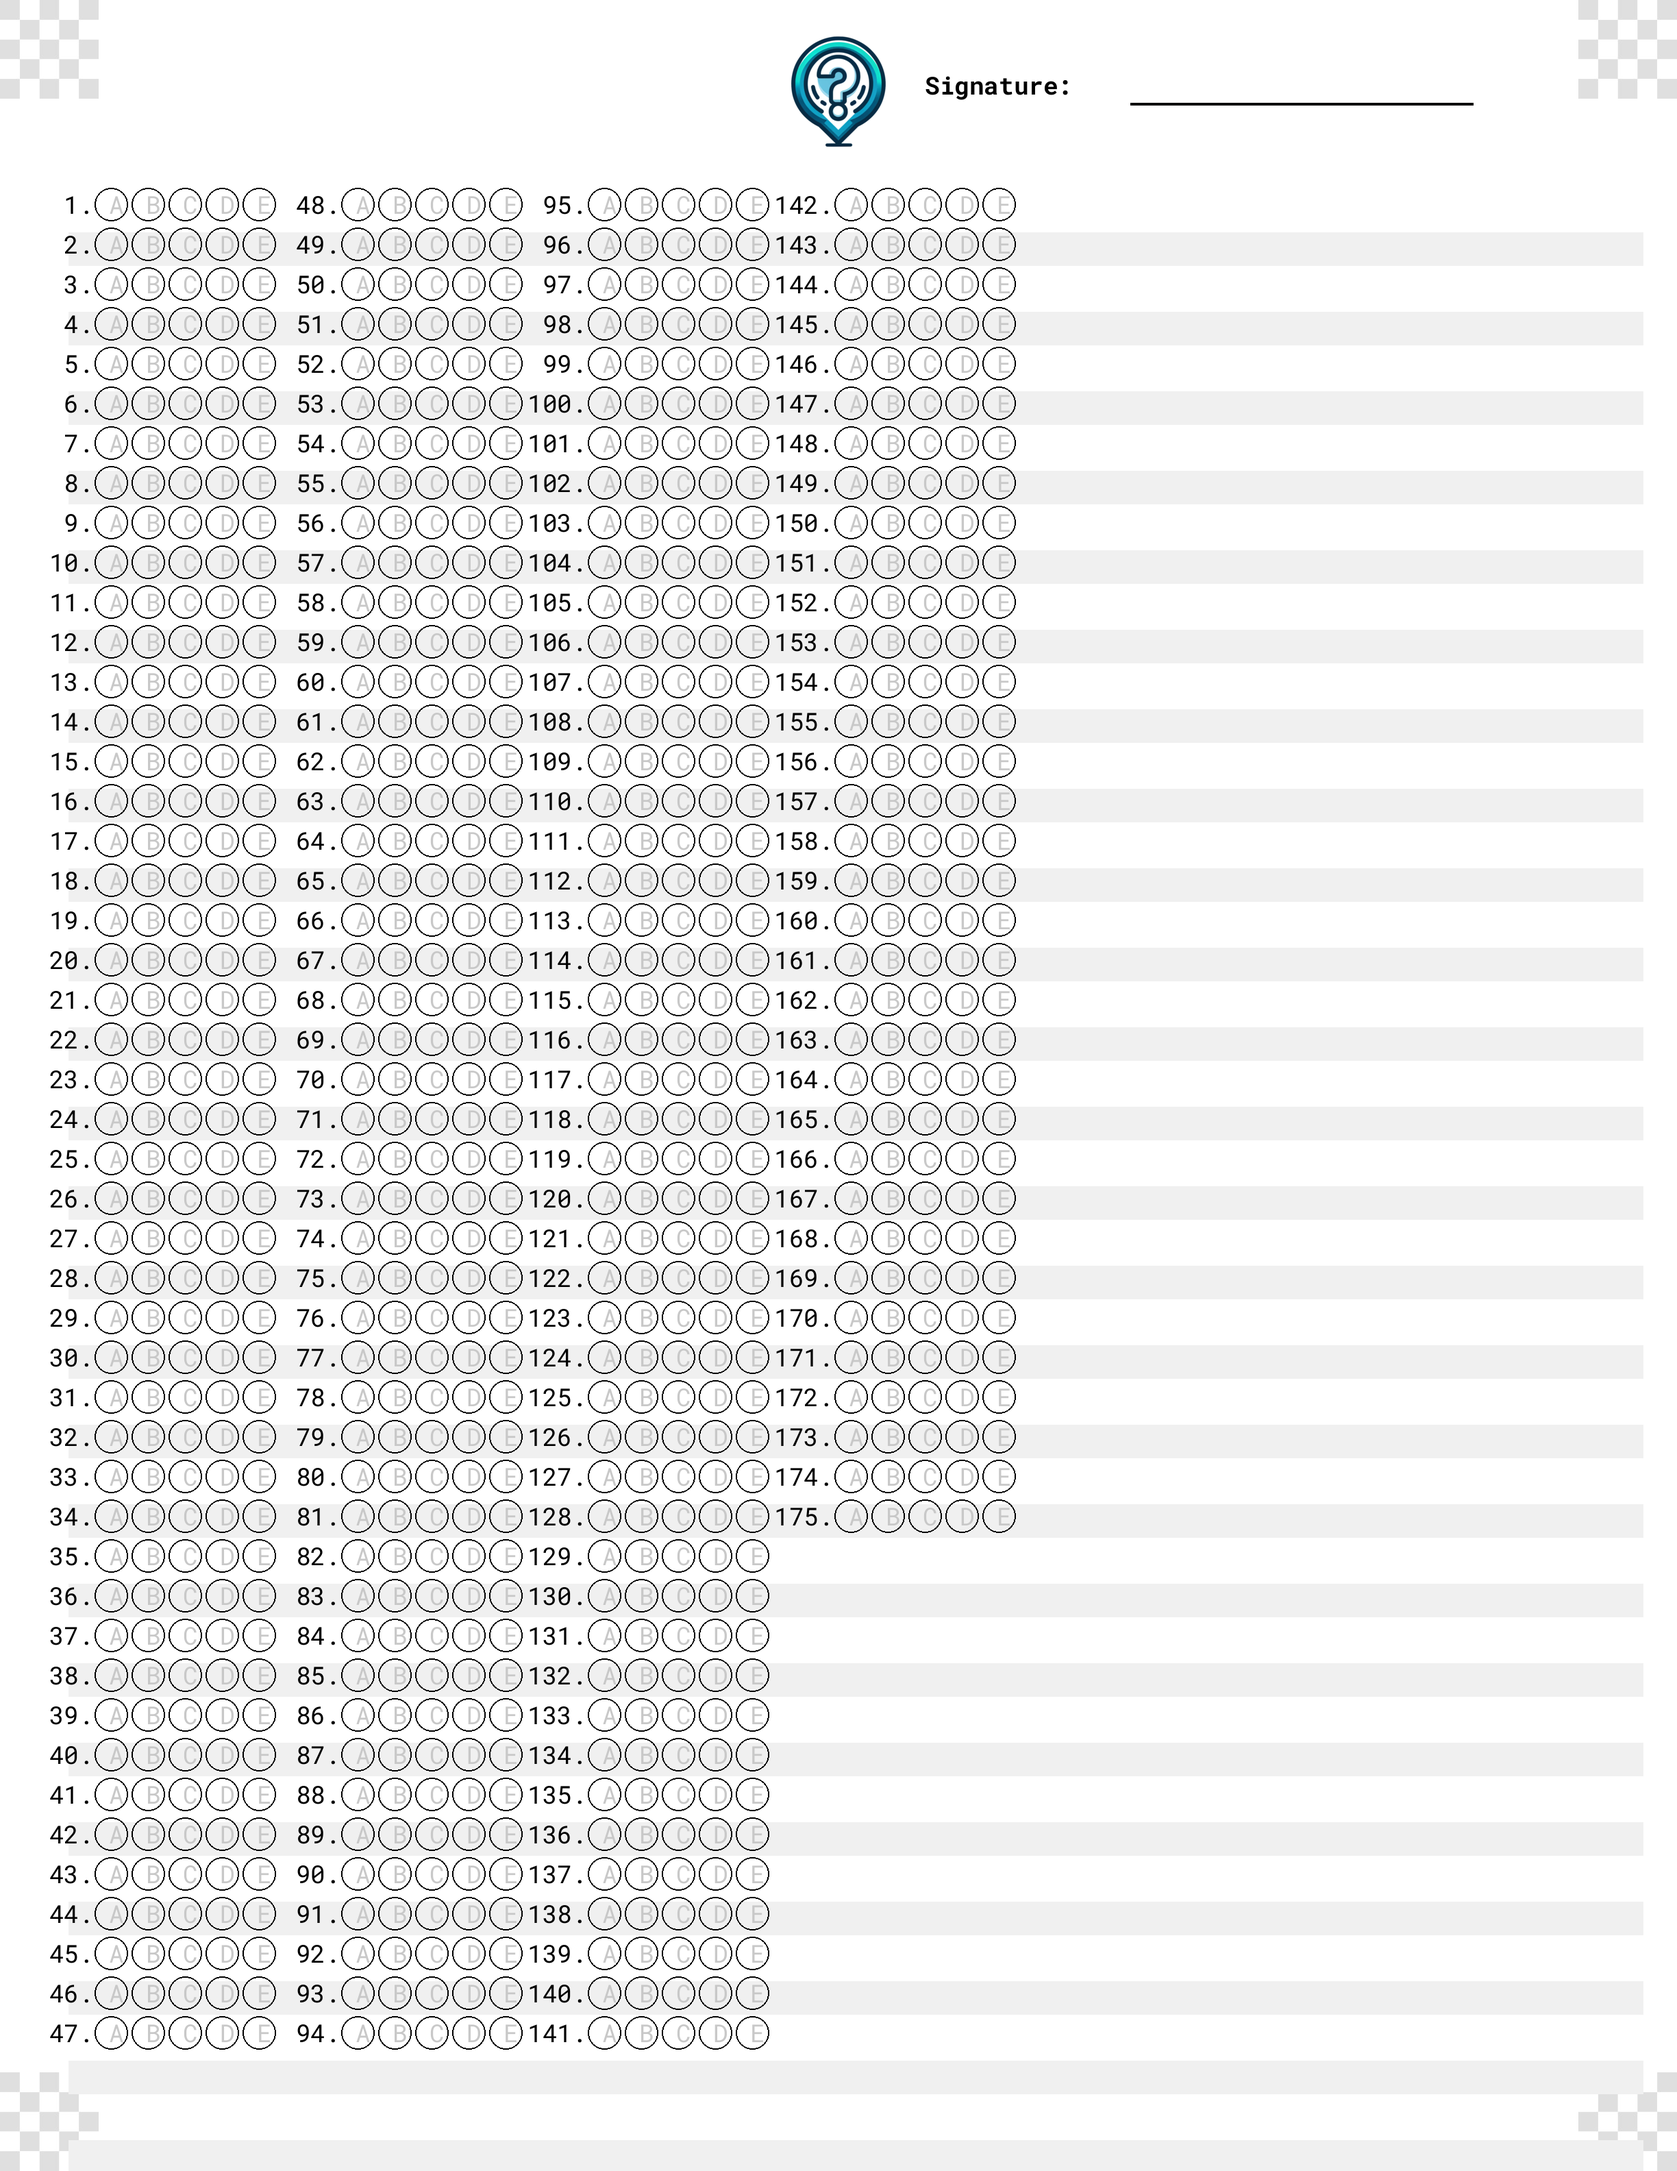
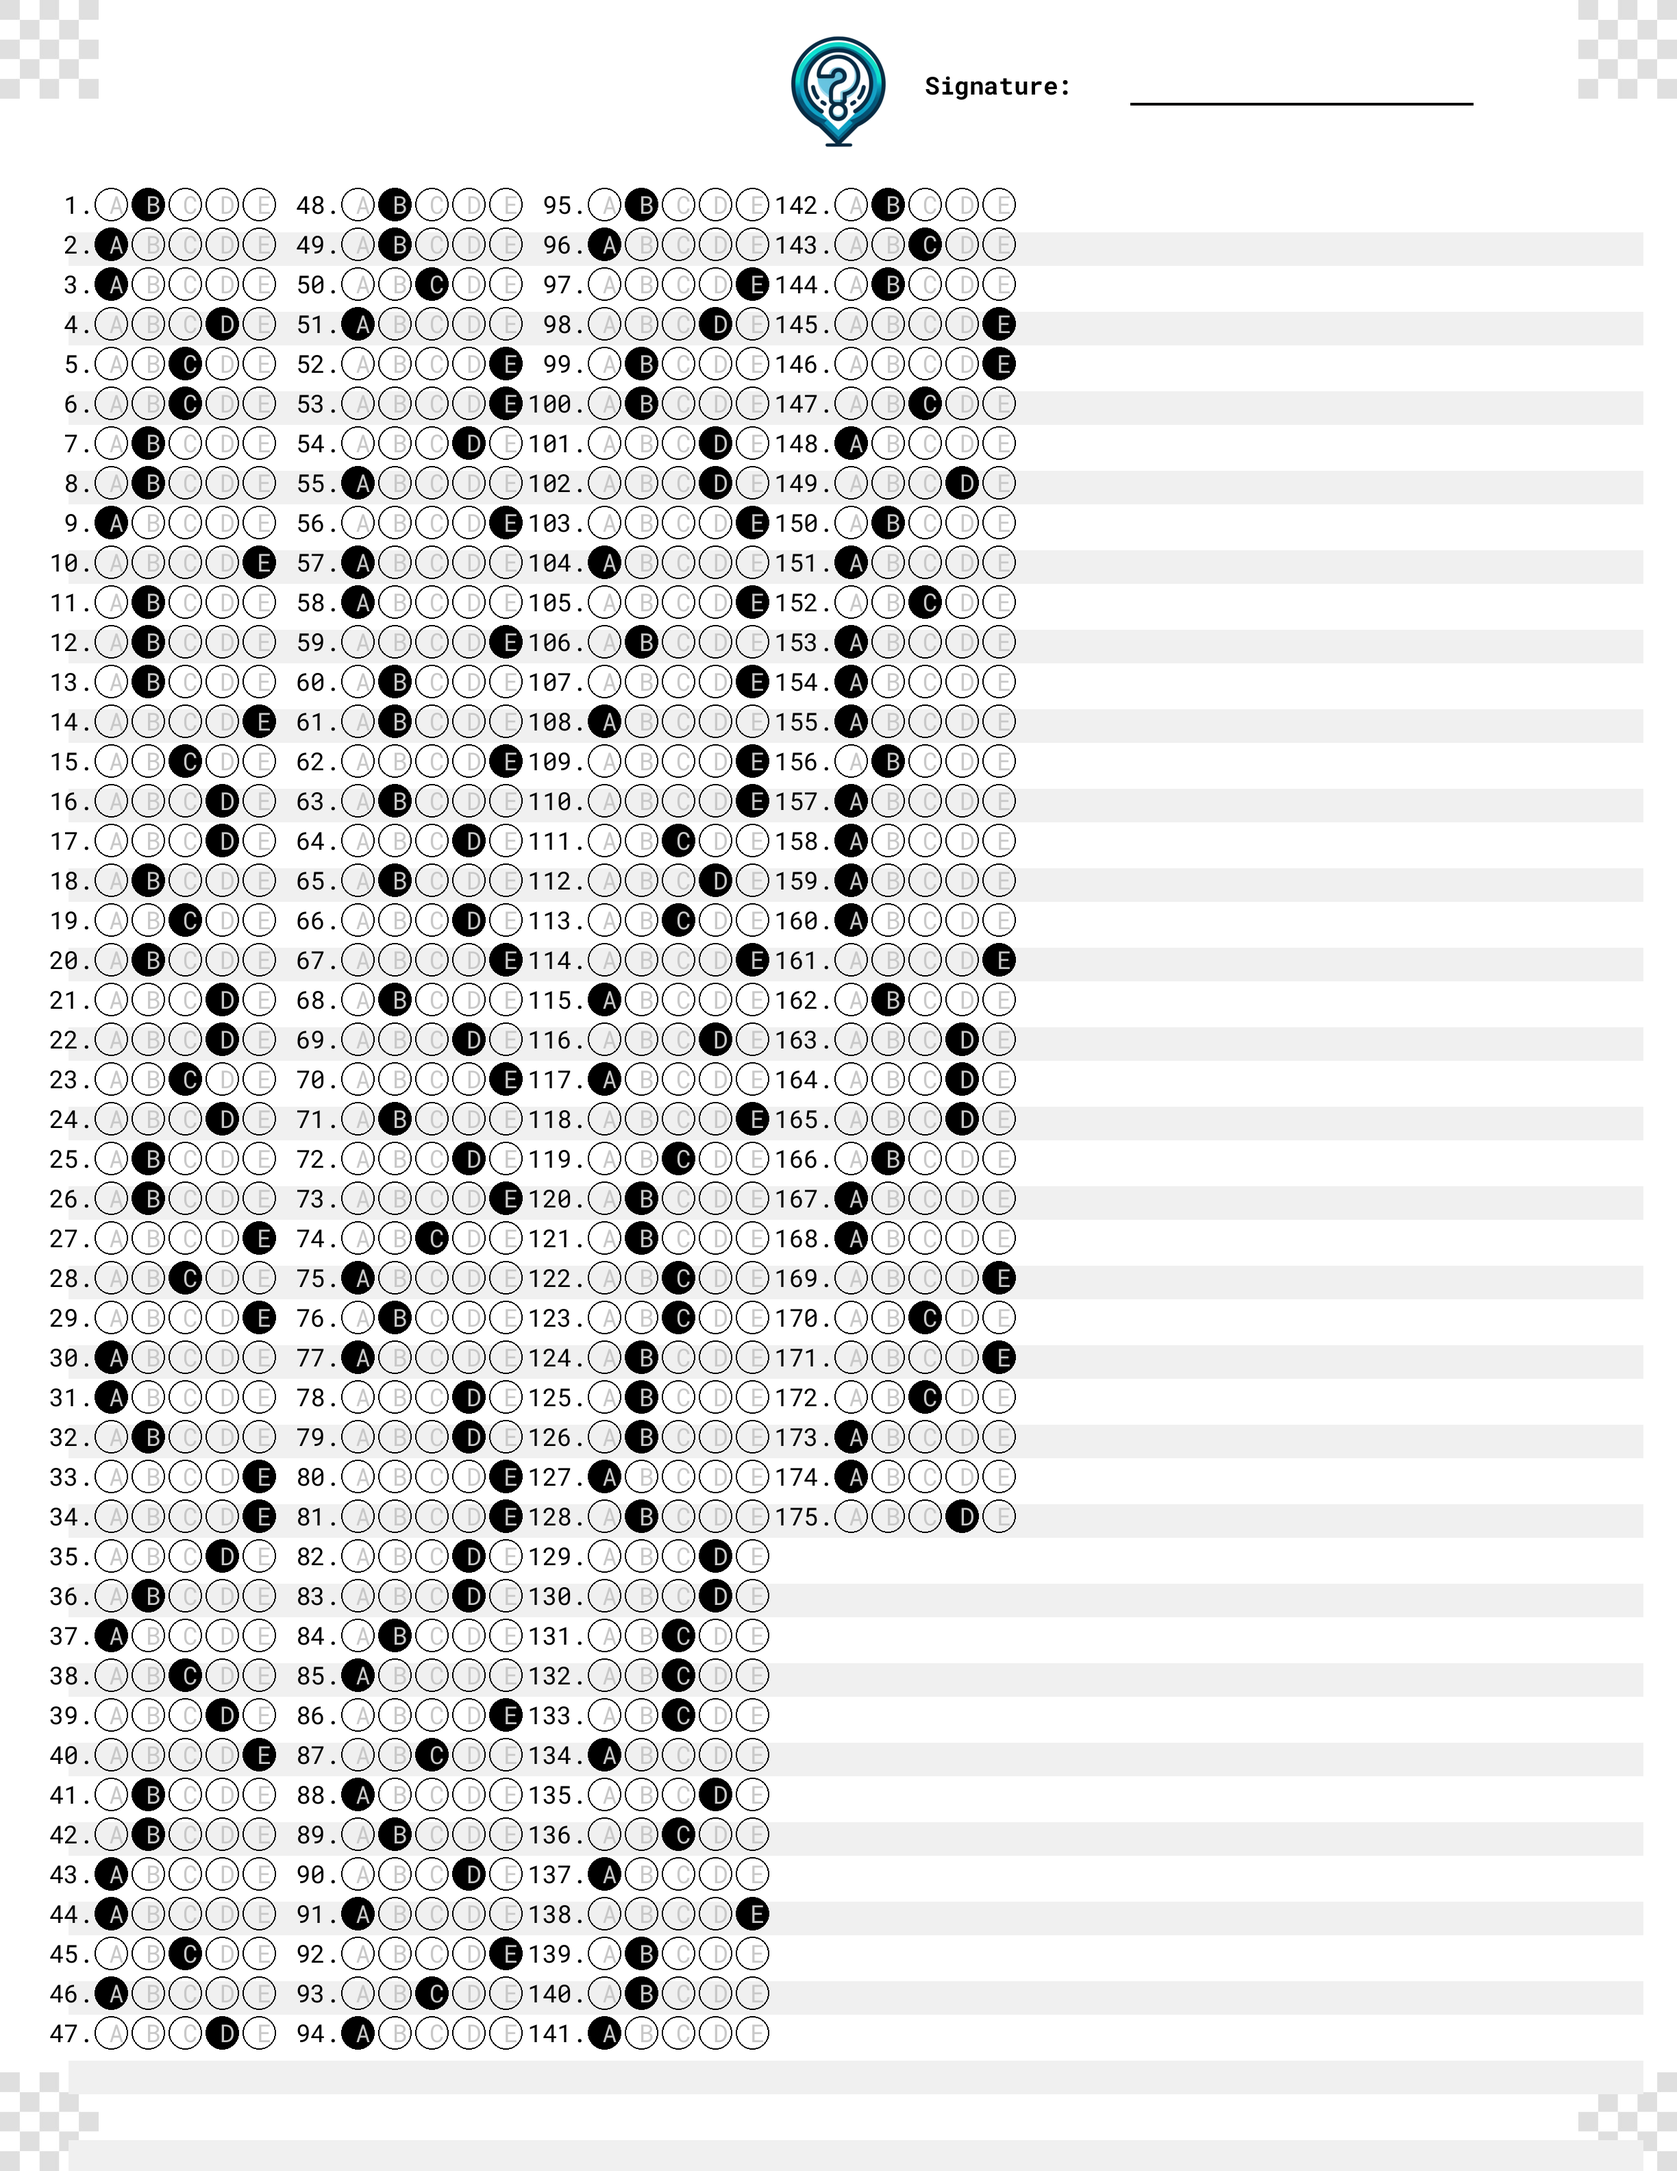
Randomly generating fake filled in answers for Pictron.Generate

diff --git a/answer_sheets/main.py b/answer_sheets/main.py
@@ -11,6 +11,7 @@ import textwrap
 import sys
 import datetime
 import json
+import random
 
 console = Console()
 
@@ -258,6 +259,13 @@ class Pictron:
             fill=fill,
             font=self.font,
         )
+    
+    def addRectangle(self, x, y, w, h, color=(0, 0, 0), line=0):
+        self.draw.rectangle([x, y, x + w, y + h], fill=color, outline=line)
+
+        # draw.rectangle(rectangle_coordinates, fill=rectangle_color, outline=None)
+
+
 
     def drawZebraLines(self, x, y):
 
@@ -274,21 +282,24 @@ class Pictron:
                 self.addRectangle(x, y, w, h, color=(240, 240, 240), line=None)
             y += self.bubble_height + self.line_spacing
 
-    def addBubble(self, x, y, line_thickness=2):
+    def addBubble(self, x, y, line_thickness=2, filled:bool=False):
         x1 = x - (self.font_size_adj // 2)
         y1 = y - (self.font_size_adj // 2)
         x2 = x1 + self.bubble_width
         y2 = y1 + self.bubble_height
 
         if self.bubble_shape in ["circle", "ellipse"]:
-            # Draw the circle with a specific fill color (e.g., 'red', 'blue', 'green', or an RGB tuple)
-
-            self.draw.ellipse([x1, y1, x2, y2], outline="black", width=line_thickness)
+            if filled:
+                self.draw.ellipse([x1, y1, x2, y2], outline="black", width=line_thickness, fill="black")
+            else:
+                self.draw.ellipse([x1, y1, x2, y2], outline="black", width=line_thickness)
 
         elif self.bubble_shape in ["rectangle", "square"]:
-
-            self.draw.rectangle([x1, y1, x2, y2], outline="black", width=line_thickness)
-
+            if filled:
+                self.draw.rectangle([x1, y1, x2, y2], outline="black", fill="black")
+            else:
+                self.draw.rectangle([x1, y1, x2, y2], outline="black", width=line_thickness)
+    
     def addRectangle(self, x, y, w, h, color=(0, 0, 0), line=0):
         self.draw.rectangle([x, y, x + w, y + h], fill=color, outline=line)
 
@@ -325,7 +336,7 @@ class Pictron:
         )
         self.addRectangle(x + 300, y + 50, 500, 3, (0, 0, 0), 2)
 
-    def addAnswerBubbles(self, start_x, start_y):
+    def addAnswerBubbles(self, start_x, start_y, randomize_filled:bool=False):
         '''
         
         TODO: add horizontal check for last column. 
@@ -362,13 +373,18 @@ class Pictron:
                 label_width = len(question_label) * (self.font_size_adj // 2)  # Estimate label width
                 label_bubble_spacing = 10  # Minimum spacing between label and first bubble
 
+                if randomize_filled:
+                    fill_answer = random.choice(range(self.num_ans_options))
+                else:
+                    fill_answer = None
+
                 # add question number to start off the new row
                 self.addBubbleLabel(x, y, question_label) 
                 x += label_width + label_bubble_spacing
 
-            # add answer choice
-            self.addBubble(x, y)
+            # add answer choice - determine if it will be filled or not
             answer_label = chr((i % self.num_ans_options) + 65)  # A, B, C, etc.
+            self.addBubble(x, y, filled=(i % self.num_ans_options) == fill_answer)
             self.addBubbleLabel(x - (label_bubble_spacing/2), y, answer_label, (200, 200, 200))
             
             # increment x to place the next answer choice if need be. 
@@ -383,7 +399,7 @@ class Pictron:
             i += 1
 
 
-    def generate(self):
+    def generate(self, random_filled:bool=False):
         w, h = self.alignment_image.size
         positions = [
             (0, 0),
@@ -403,7 +419,7 @@ class Pictron:
         self.pasteImage(
             self.img_width // 2 - self.logo_image.width // 2, 50, self.logo_image
         )
-        self.addAnswerBubbles(right, top)
+        self.addAnswerBubbles(right, top, randomize_filled=random_filled)
 
     def saveImage(self, outPath=None, outName=None, show=False):
         # Save the image
@@ -536,5 +552,5 @@ if __name__ == "__main__":
         }
 
         pictron = Pictron(**info)
-        pictron.generate()
+        pictron.generate(random_filled=True)
         pictron.saveImage()
